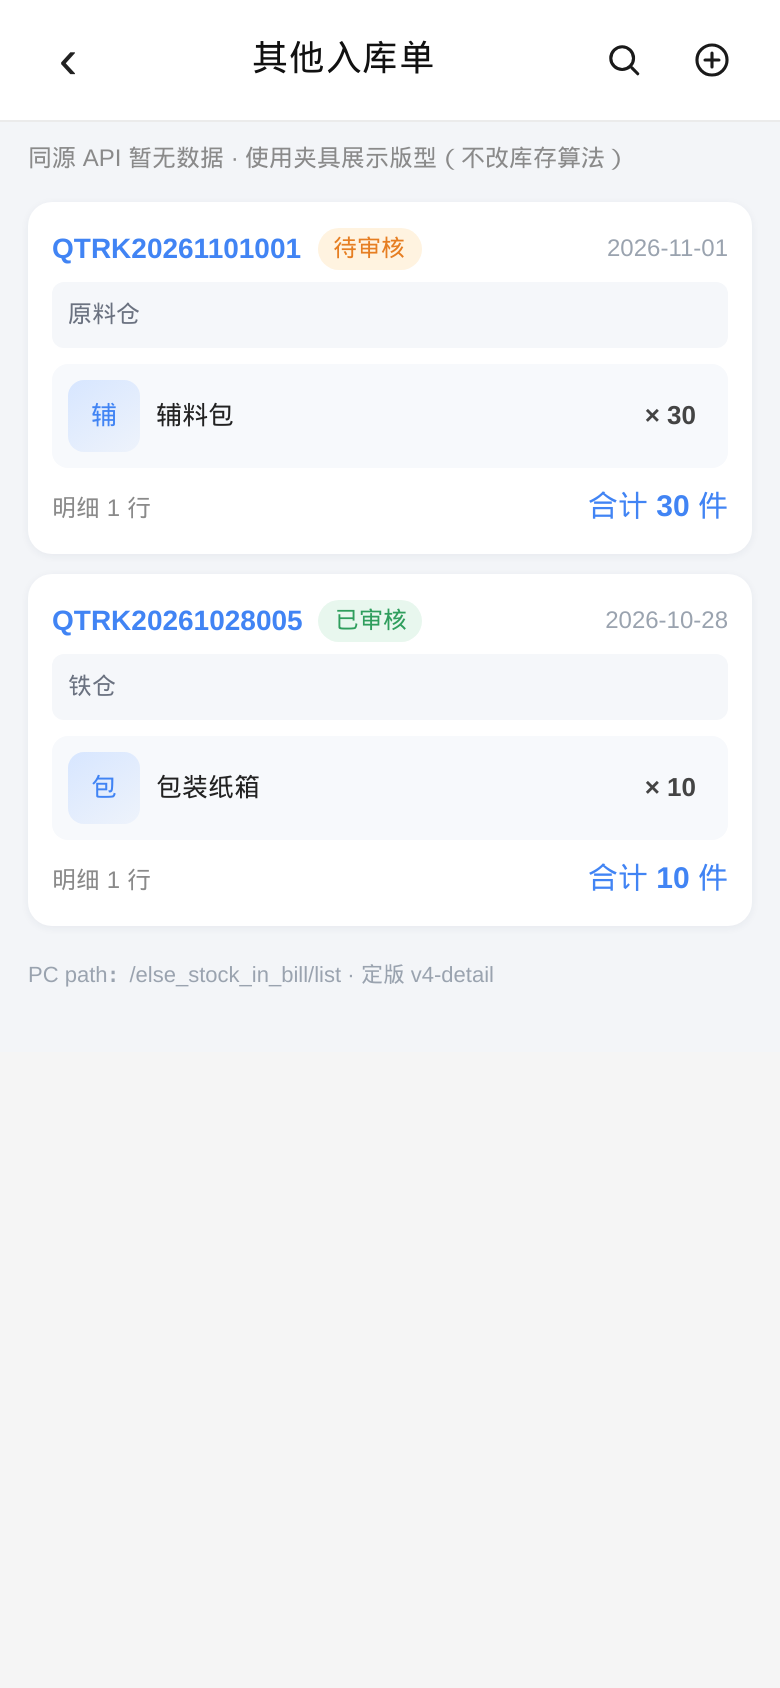
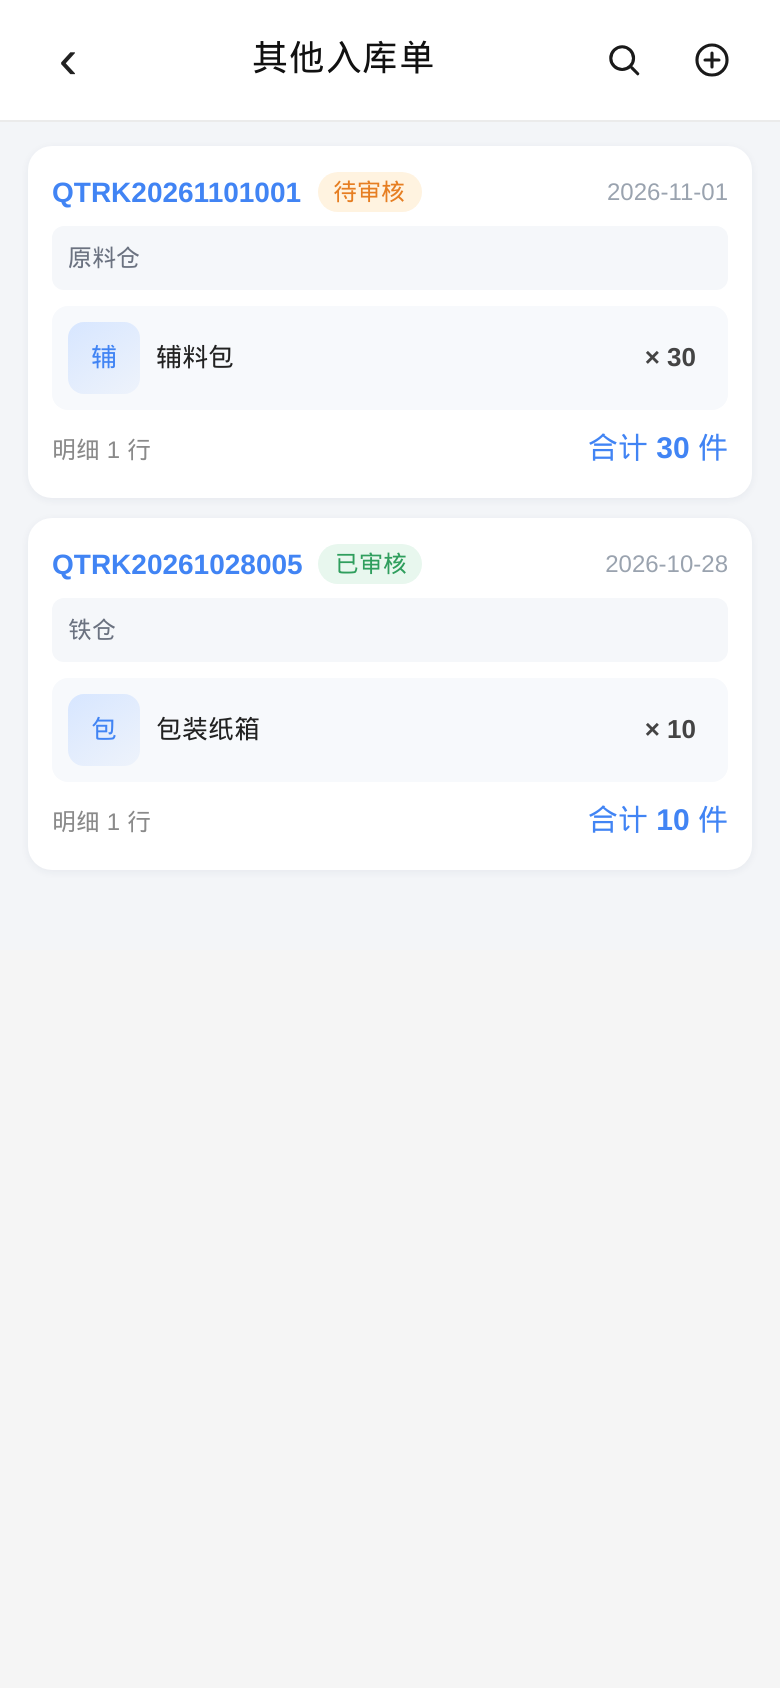
fix: C2 清夹具横幅与开发 meta（Allen P0）
用户可见 UI 去掉夹具提示、PC path/定版页脚、toast「（皮）」等开发文案；
夹具数据仍可兜底。Playwright 增加禁文案断言并复跑截图。

diff --git a/apps/web/src/kgd/mobile-shell/warehouse/WarehouseLeaf.tsx b/apps/web/src/kgd/mobile-shell/warehouse/WarehouseLeaf.tsx
@@ -50,10 +50,10 @@ export function WarehouseLeaf({ leafKey }: { leafKey: string }) {
   useEffect(() => {
     const action = params.get('action');
     if (!action || !leaf) return;
-    if (action === 'scan') setToast('扫码入口已保留（皮）');
-    else if (action === 'blank' || action === 'direct') setToast(`空白新增入口已打开（皮）· ${leaf.title}`);
-    else if (params.get('upstream')) setToast(`上游已选，进入${leaf.title}新增（皮）`);
-    else setToast(`${action} · 业务写回后续`);
+    if (action === 'scan') setToast('扫码');
+    else if (action === 'blank' || action === 'direct') setToast('已打开新增');
+    else if (params.get('upstream')) setToast(`已选上游 · ${leaf.title}`);
+    else setToast('已处理');
     const next = new URLSearchParams(params);
     next.delete('action');
     next.delete('upstream');
@@ -101,7 +101,7 @@ export function WarehouseLeaf({ leafKey }: { leafKey: string }) {
 
   function onPlusPick(item: PlusItem) {
     if (item.key === 'scan') {
-      setToast('扫码入口已保留（皮）');
+      setToast('扫码');
       return;
     }
     const needsUpstream =
@@ -115,7 +115,7 @@ export function WarehouseLeaf({ leafKey }: { leafKey: string }) {
       navigate(msUpstreamUrl(leaf!));
       return;
     }
-    setToast(`${item.label} · 业务写回后续（皮）`);
+    setToast(item.label);
   }
 
   return (
@@ -133,7 +133,6 @@ export function WarehouseLeaf({ leafKey }: { leafKey: string }) {
         onSearchClose={() => setSearching(false)}
       />
       {toast && <div className="c2-toast" data-testid="c2-toast">{toast}</div>}
-      {fromFixture && <p className="c2-fixture-hint">同源 API 暂无数据 · 使用夹具展示版型（不改库存算法）</p>}
       {leaf.alarmCapsules && (
         <div className="c2-capsules" data-testid="c2-alarm-capsules" role="tablist" aria-label="库存报警筛选">
           {ALARM_CAPS.map((cap) => (
@@ -160,7 +159,6 @@ export function WarehouseLeaf({ leafKey }: { leafKey: string }) {
         {filtered.map((row) => renderC2Card(leaf.layout, leaf.key, row))}
         {!filtered.length && <div className="ms-empty">无匹配记录</div>}
       </div>
-      <p className="c2-leaf-foot">PC path：{leaf.pcPath} · 定版 {leaf.layout}{leaf.plus === null ? ' · 无＋' : ''}</p>
     </div>
   );
 }

diff --git a/apps/web/src/kgd/mobile-shell/tabs/FunctionsTab.tsx b/apps/web/src/kgd/mobile-shell/tabs/FunctionsTab.tsx
@@ -75,7 +75,6 @@ export function FunctionsTab() {
                               {leaf.label}
                               {leaf.key === 'quote' && <small className="ms-fn-note">手机必留 · 可操作</small>}
                               {leaf.key === 'contract' && <small className="ms-fn-note">须选上游报价</small>}
-                              {menu.key === 'warehouse' && leaf.key === 'flow' && <small className="ms-fn-note">只读 · 无＋</small>}
                             </span>
                           </button>
                         ))}
@@ -90,7 +89,6 @@ export function FunctionsTab() {
                         {node.key === 'quote' && <small className="ms-fn-note">手机必留 · 可操作</small>}
                         {node.key === 'contract' && <small className="ms-fn-note">须选上游报价</small>}
                         {node.key === 'plan' && <small className="ms-fn-note">生产计划MRP · 物料分析</small>}
-                        {menu.key === 'warehouse' && node.key === 'flow' && <small className="ms-fn-note">只读 · 无＋</small>}
                       </span>
                     </button>
                   );

diff --git a/apps/web/src/kgd/mobile-shell/warehouse/UpstreamPick.tsx b/apps/web/src/kgd/mobile-shell/warehouse/UpstreamPick.tsx
@@ -86,7 +86,6 @@ export function UpstreamPick() {
     if (mapped.length) return mapped;
     return UPSTREAM_FIXTURES[kind] ?? [];
   }, [kind, remote.data]);
-  const fromFixture = !(mapRemote(kind, remote.data).length);
   const [picked, setPicked] = useState<string[]>([]);
 
   function toggle(id: string) {
@@ -124,7 +123,6 @@ export function UpstreamPick() {
           完成({picked.length})
         </button>
       </header>
-      {fromFixture && <p className="c2-fixture-hint">本地暂无上游数据 · 展示夹具结构（业务写回不改）</p>}
       <div className="c2-pick-list">
         {options.map((opt) => {
           const on = picked.includes(opt.id);

diff --git a/apps/web/src/kgd/mobile-shell/warehouse/c2-warehouse.css b/apps/web/src/kgd/mobile-shell/warehouse/c2-warehouse.css
@@ -47,12 +47,6 @@
   outline: none;
 }
 
-.c2-fixture-hint {
-  margin: 8px 14px 0;
-  font-size: 12px;
-  color: #8a8a8a;
-}
-
 .c2-toast {
   margin: 8px 14px 0;
   padding: 10px 12px;
@@ -448,12 +442,6 @@
 }
 
 .c2-taking-name .c2-thumb { width: 24px; height: 24px; font-size: 11px; }
-
-.c2-leaf-foot {
-  margin: 4px 14px 0;
-  font-size: 11px;
-  color: #9aa3af;
-}
 
 /* 上游选单 · 微信发起群聊皮 */
 .c2-pick {
